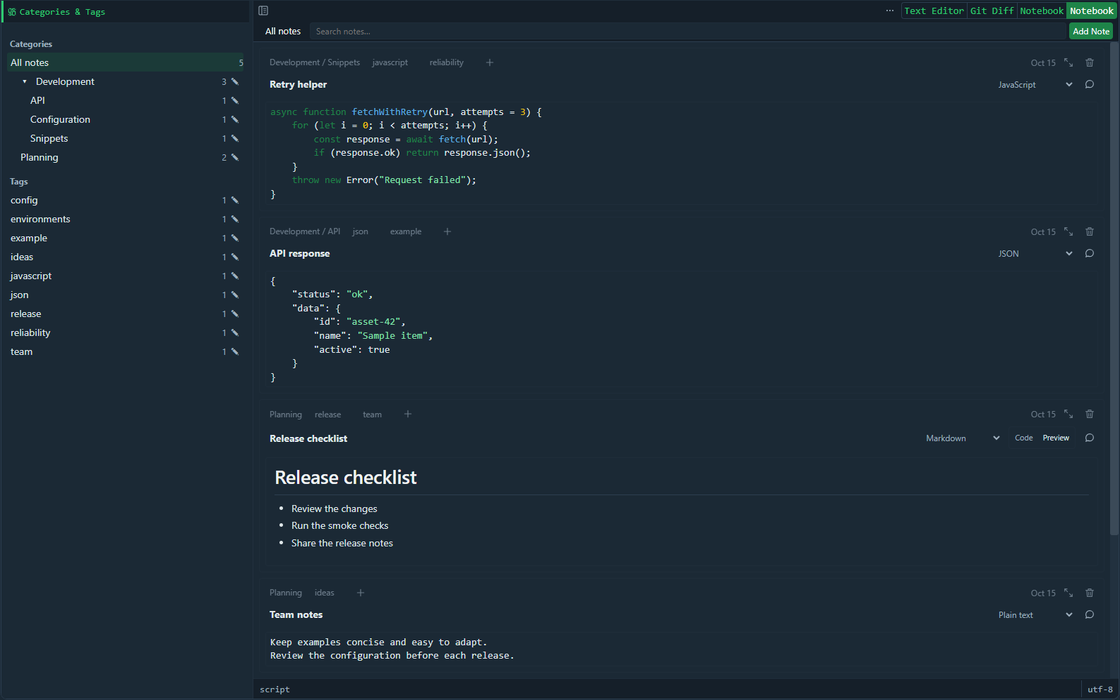
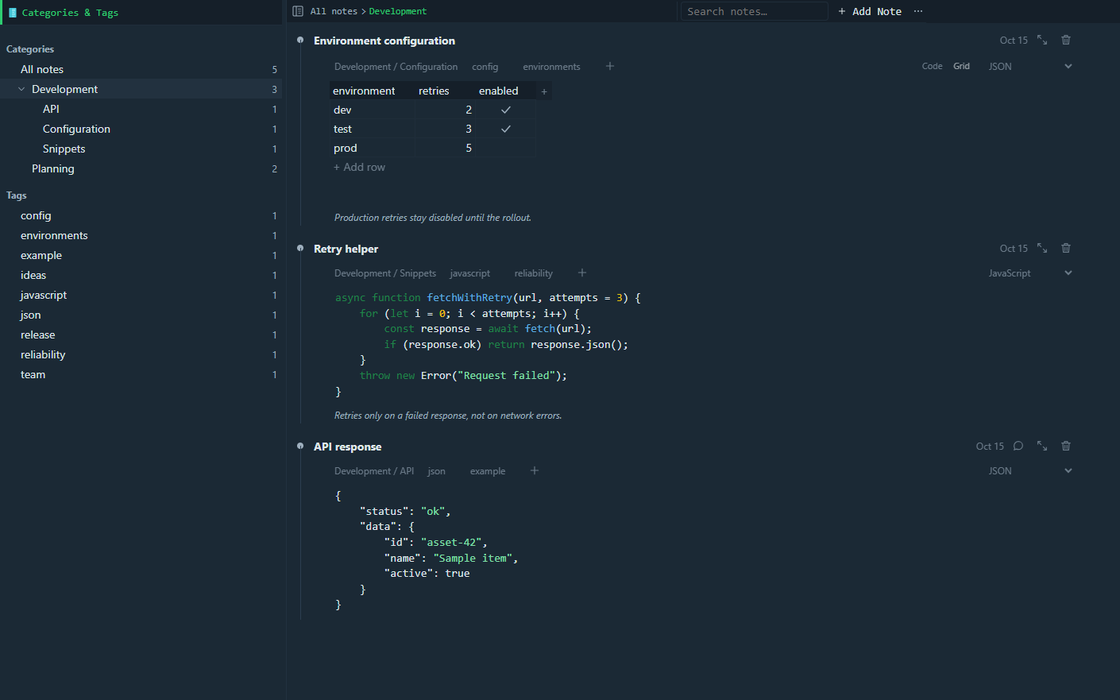
Notebook board: catalog screenshot and changelog heading
Screenshot retaken with the Persephone toolbar breadcrumb, the restyled cards and
the Categories & Tags panel. Fix the mis-encoded WHATS-NEW heading.

diff --git a/boards/notebook/WHATS-NEW.md b/boards/notebook/WHATS-NEW.md
@@ -1,4 +1,4 @@
-# What?s New
+# What's New — Notebook
 
 ## 1.0.0
 
